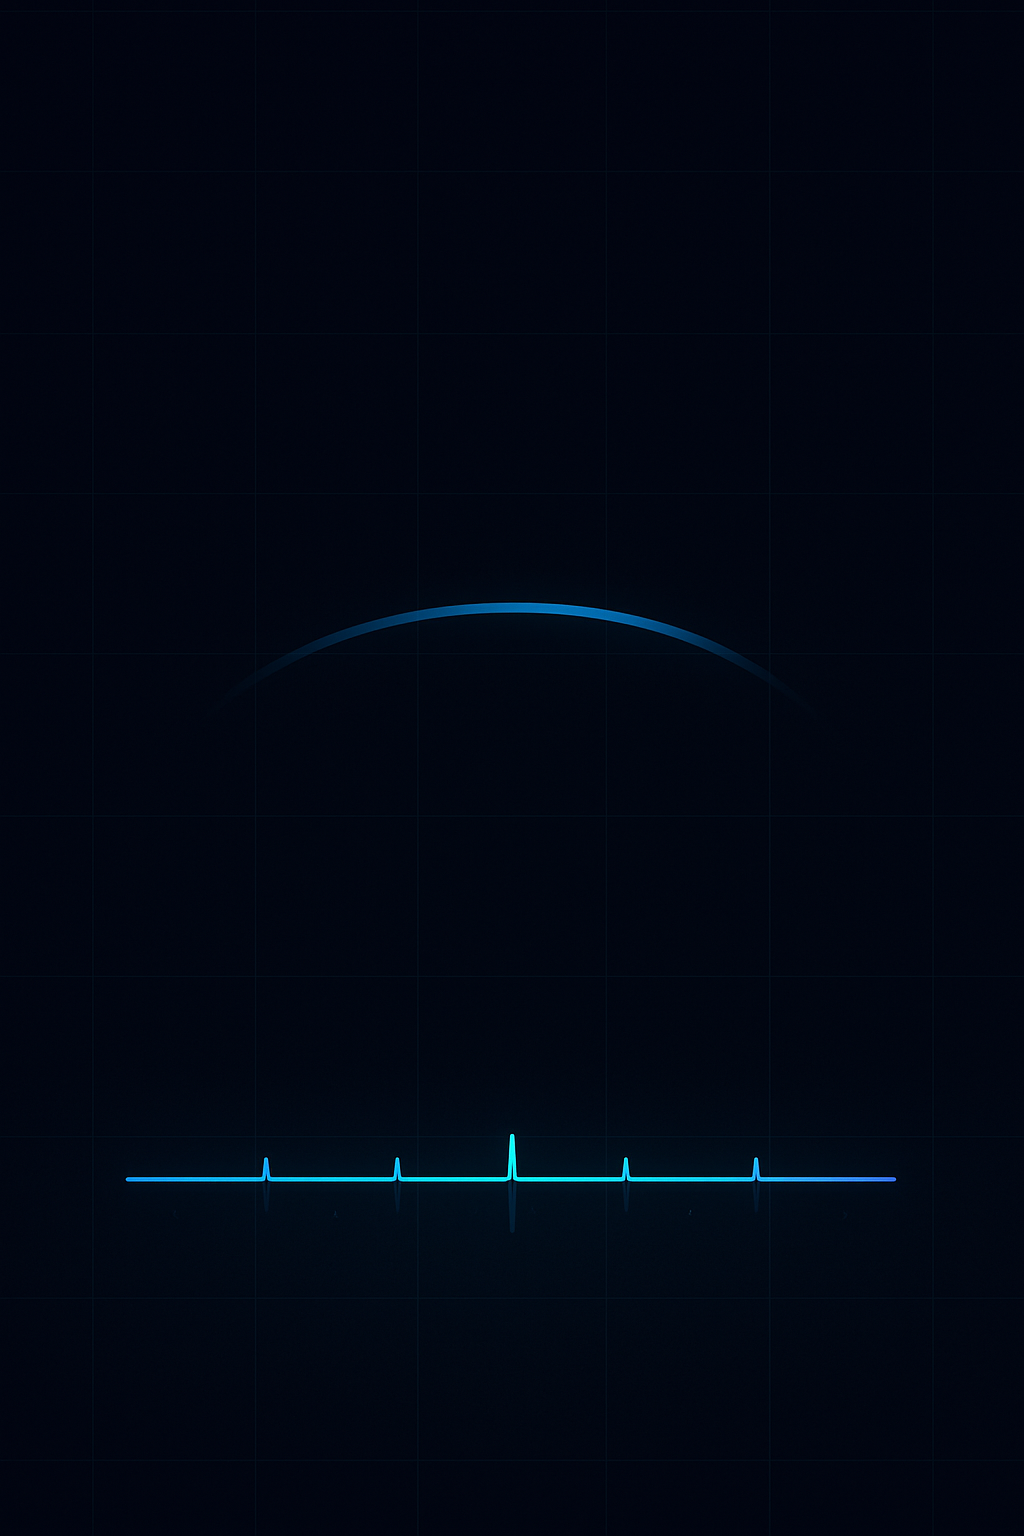
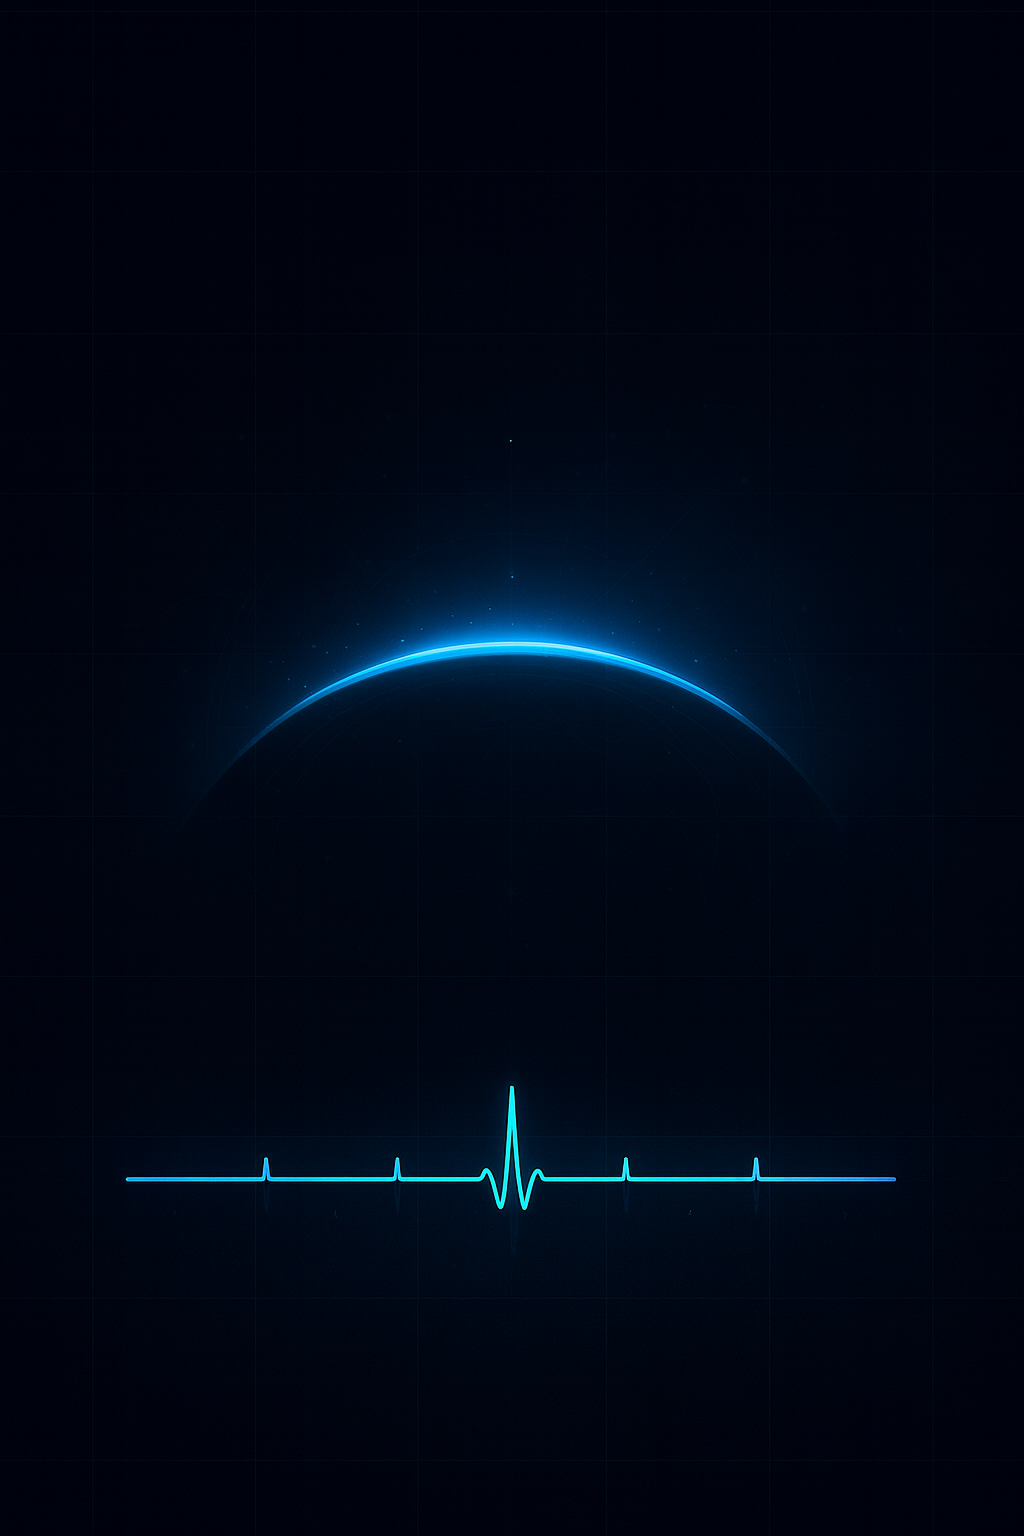
Refactor audio processing in AudioService to streamline waveform generation. Implement granular synthesis for precise audio stretching to a target duration of 1 minute, enhancing sound quality with smooth transitions and pitch variations. Update crossfade logic and add Hann window creation for impro

Changed region(s): [[0.2188, 0.3438, 0.7812, 0.5], [0.4688, 0.7188, 0.5312, 0.7812]]

diff --git a/lib/audio/audio_service.dart b/lib/audio/audio_service.dart
@@ -604,38 +604,39 @@ class AudioService {
 
     // 2. Segmente in umgedrehter Reihenfolge verketten, mit Crossfades
     final ordered = segments.reversed.toList();
-    final result = <double>[];
+    final baseResult = <double>[];
     final crossfadeSamples =
         (_sampleRate * 0.03).floor(); // ~30 ms Crossfade pro Übergang
 
-    // Für mehr Länge und Tiefe das Muster mehrfach wiederholen (mindestens 3x).
-    const repetitions = 3;
-    for (var r = 0; r < repetitions; r++) {
-      for (var si = 0; si < ordered.length; si++) {
-        final seg = ordered[si].syntheticSamples;
-        if (seg.isEmpty) continue;
+    // Segmente einmal verketten (ohne Wiederholung)
+    for (var si = 0; si < ordered.length; si++) {
+      final seg = ordered[si].syntheticSamples;
+      if (seg.isEmpty) continue;
 
-        if (result.isEmpty) {
-          result.addAll(seg);
-        } else {
-          final prevLen = result.length;
-          final cf = min(crossfadeSamples, min(prevLen, seg.length));
+      if (baseResult.isEmpty) {
+        baseResult.addAll(seg);
+      } else {
+        final prevLen = baseResult.length;
+        final cf = min(crossfadeSamples, min(prevLen, seg.length));
 
-          for (var i = 0; i < cf; i++) {
-            final t = i / (cf - 1).clamp(1, cf);
-            final a = result[prevLen - cf + i];
-            final b = seg[i];
-            result[prevLen - cf + i] = (a * (1 - t) + b * t).clamp(-1.0, 1.0);
-          }
+        for (var i = 0; i < cf; i++) {
+          final t = i / (cf - 1).clamp(1, cf);
+          final a = baseResult[prevLen - cf + i];
+          final b = seg[i];
+          baseResult[prevLen - cf + i] = (a * (1 - t) + b * t).clamp(-1.0, 1.0);
+        }
 
-          if (cf < seg.length) {
-            result.addAll(seg.sublist(cf));
-          }
+        if (cf < seg.length) {
+          baseResult.addAll(seg.sublist(cf));
         }
       }
     }
 
-    // 3. Raumklang / Echo hinzufügen und gesamte Welle normalisieren
+    // 3. Stretch the base waveform to exactly 1 minute using granular synthesis
+    const targetDurationSeconds = 60.0;
+    final result = _stretchToDuration(baseResult, targetDurationSeconds);
+
+    // 4. Raumklang / Echo hinzufügen und gesamte Welle normalisieren
     final withRoom = _applyEcho(result);
 
     double maxAmp = 0.0;
@@ -746,6 +747,136 @@ class AudioService {
     }
 
     return output;
+  }
+
+  /// Stretches audio to a target duration using granular synthesis.
+  /// This creates a smooth, healing sound by using overlapping grains with
+  /// smooth windowing and crossfades.
+  List<double> _stretchToDuration(List<double> input, double targetDurationSeconds) {
+    if (input.isEmpty) return input;
+    
+    final inputDuration = input.length / _sampleRate;
+    final stretchRatio = targetDurationSeconds / inputDuration;
+    
+    // If the input is already longer than target, we still stretch it slightly
+    // to ensure exactly 60 seconds
+    final targetSamples = (targetDurationSeconds * _sampleRate).round();
+    
+    // Granular synthesis parameters for smooth, healing sound
+    // Grain size: ~100-200ms for smooth transitions
+    final grainSizeSamples = (_sampleRate * 0.15).round(); // 150ms grains
+    // Overlap: 50% for smooth crossfades
+    final hopSizeSamples = (grainSizeSamples * 0.5).round();
+    // Input hop: how much to advance in source audio
+    final inputHopSamples = (hopSizeSamples / stretchRatio).round().clamp(1, input.length);
+    
+    final output = List<double>.filled(targetSamples, 0.0);
+    final window = _createHannWindow(grainSizeSamples);
+    
+    var inputPos = 0.0;
+    var outputPos = 0;
+    
+    // Add subtle random variations for organic feel
+    final randomPhase = _random.nextDouble() * 2 * pi;
+    
+    while (outputPos < targetSamples) {
+      final inputPosInt = inputPos.round().clamp(0, input.length - 1);
+      final grainEnd = min(inputPosInt + grainSizeSamples, input.length);
+      final actualGrainSize = grainEnd - inputPosInt;
+      
+      if (actualGrainSize <= 0) break;
+      
+      // Extract grain from input
+      final grain = input.sublist(inputPosInt, grainEnd);
+      
+      // Apply windowing to grain
+      final windowedGrain = <double>[];
+      for (var i = 0; i < grain.length; i++) {
+        final windowValue = i < window.length ? window[i] : 1.0;
+        windowedGrain.add(grain[i] * windowValue);
+      }
+      
+      // Add subtle pitch variation for more organic sound (very gentle)
+      final pitchVariation = 1.0 + 0.01 * sin(2 * pi * 0.1 * (outputPos / _sampleRate) + randomPhase);
+      
+      // Place grain in output with crossfade
+      for (var i = 0; i < windowedGrain.length && outputPos + i < targetSamples; i++) {
+        final outputIndex = outputPos + i;
+        if (outputIndex >= 0 && outputIndex < output.length) {
+          // Apply gentle pitch variation through slight time-stretching of grain
+          final sourceIndex = (i / pitchVariation).round().clamp(0, windowedGrain.length - 1);
+          final value = windowedGrain[sourceIndex];
+          
+          // Crossfade with existing content
+          final crossfadeStart = min(hopSizeSamples, output.length - outputIndex);
+          final crossfadeEnd = min(grainSizeSamples, output.length - outputIndex);
+          double fade = 1.0;
+          
+          if (i < crossfadeStart) {
+            // Fade in
+            fade = i / crossfadeStart;
+          } else if (i >= crossfadeEnd - crossfadeStart) {
+            // Fade out
+            final fadeOutPos = i - (crossfadeEnd - crossfadeStart);
+            fade = 1.0 - (fadeOutPos / crossfadeStart);
+          }
+          
+          output[outputIndex] = (output[outputIndex] + value * fade).clamp(-1.0, 1.0);
+        }
+      }
+      
+      // Advance positions
+      inputPos += inputHopSamples;
+      outputPos += hopSizeSamples;
+      
+      // If we've consumed all input, loop back smoothly with slight variation
+      if (inputPos >= input.length - grainSizeSamples) {
+        // Wrap around with slight random offset for organic variation
+        final wrapOffset = _random.nextDouble() * 0.05 * input.length;
+        inputPos = wrapOffset.clamp(0.0, (input.length - grainSizeSamples).toDouble());
+      }
+    }
+    
+    // Ensure we have exactly targetSamples by padding or trimming if needed
+    if (output.length != targetSamples) {
+      if (output.length < targetSamples) {
+        // Pad with silence or fade out
+        final padding = targetSamples - output.length;
+        for (var i = 0; i < padding; i++) {
+          final fadeOut = 1.0 - (i / padding);
+          final lastValue = output.isNotEmpty ? output.last : 0.0;
+          output.add(lastValue * fadeOut);
+        }
+      } else {
+        // Trim to exact length
+        output.removeRange(targetSamples, output.length);
+      }
+    }
+    
+    // Normalize to prevent clipping
+    double maxAmp = 0.0;
+    for (final s in output) {
+      final a = s.abs();
+      if (a > maxAmp) maxAmp = a;
+    }
+    if (maxAmp > 0.9) {
+      final normFactor = 0.9 / maxAmp;
+      for (var i = 0; i < output.length; i++) {
+        output[i] = (output[i] * normFactor).clamp(-1.0, 1.0);
+      }
+    }
+    
+    return output;
+  }
+
+  /// Creates a Hann window for smooth grain transitions.
+  List<double> _createHannWindow(int size) {
+    final window = List<double>.filled(size, 0.0);
+    for (var i = 0; i < size; i++) {
+      final t = i / (size - 1);
+      window[i] = 0.5 * (1 - cos(2 * pi * t));
+    }
+    return window;
   }
 
   /// Spielt eine finale Wellenform ab, indem sie temporär als WAV-Datei
